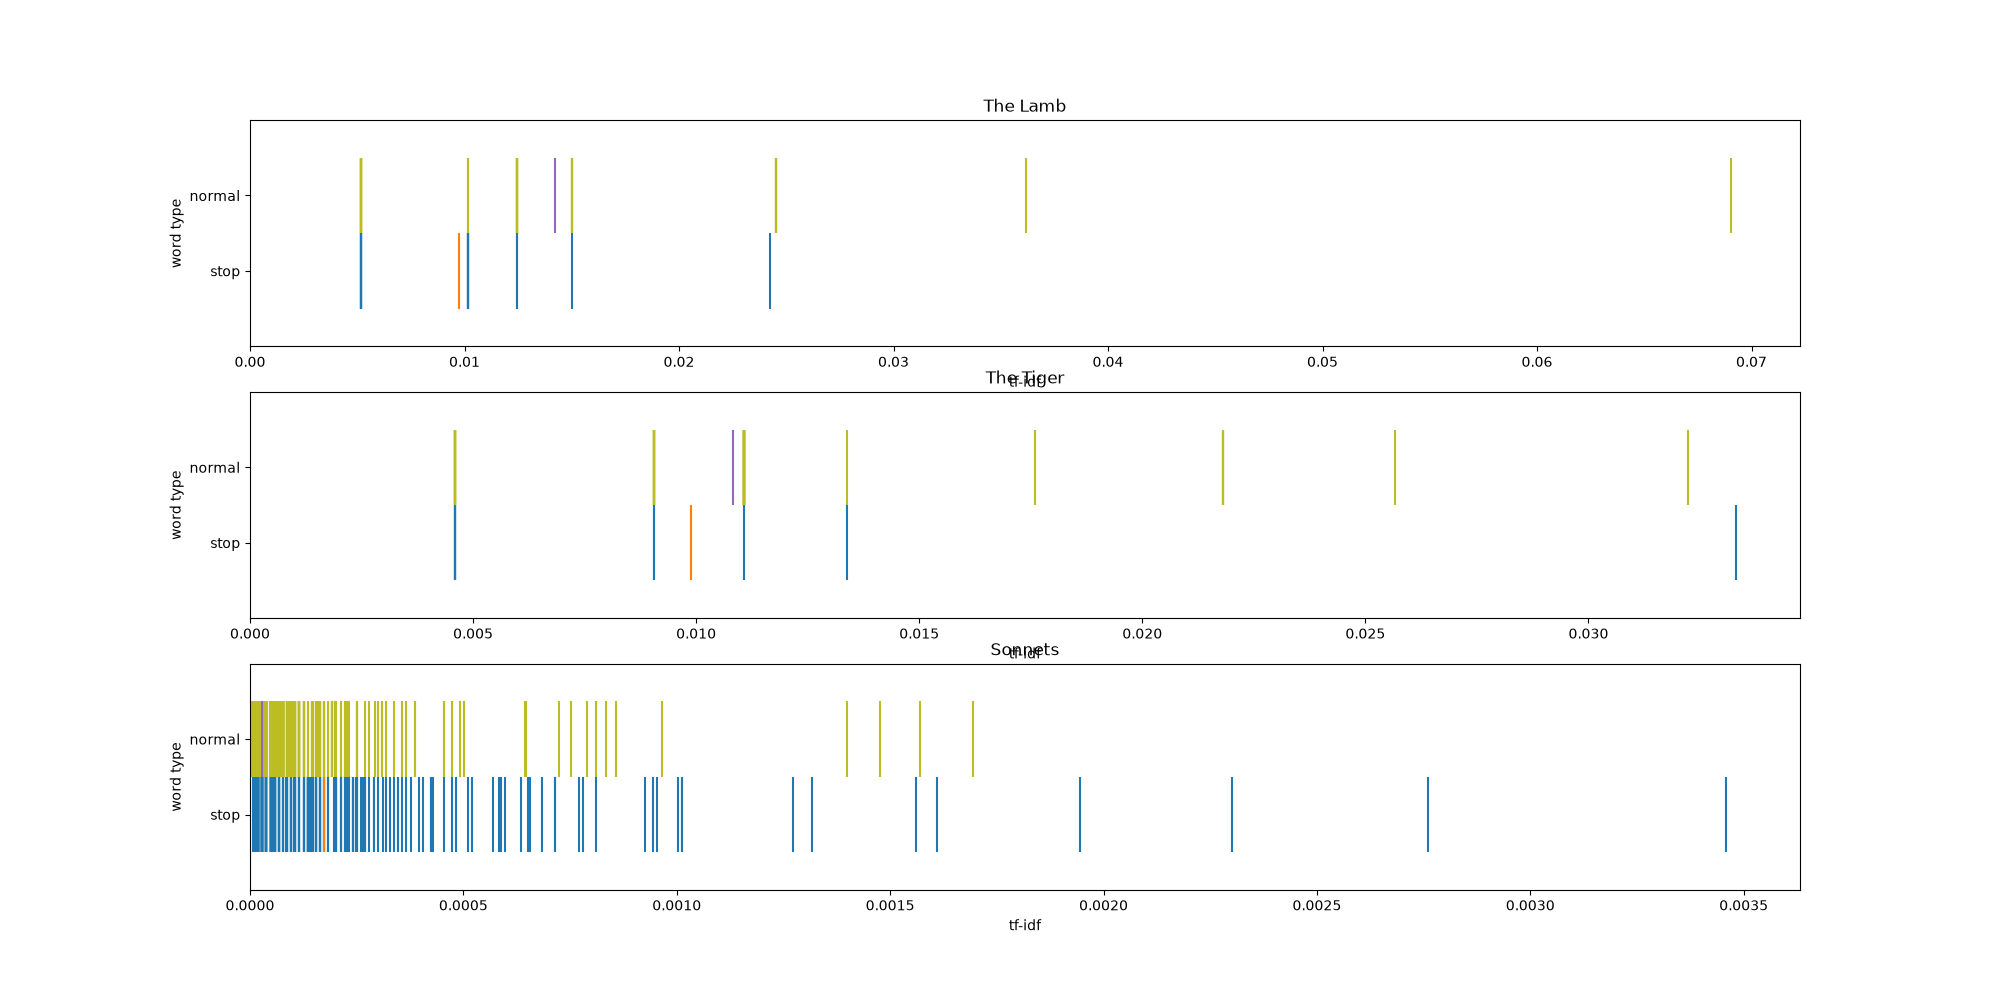
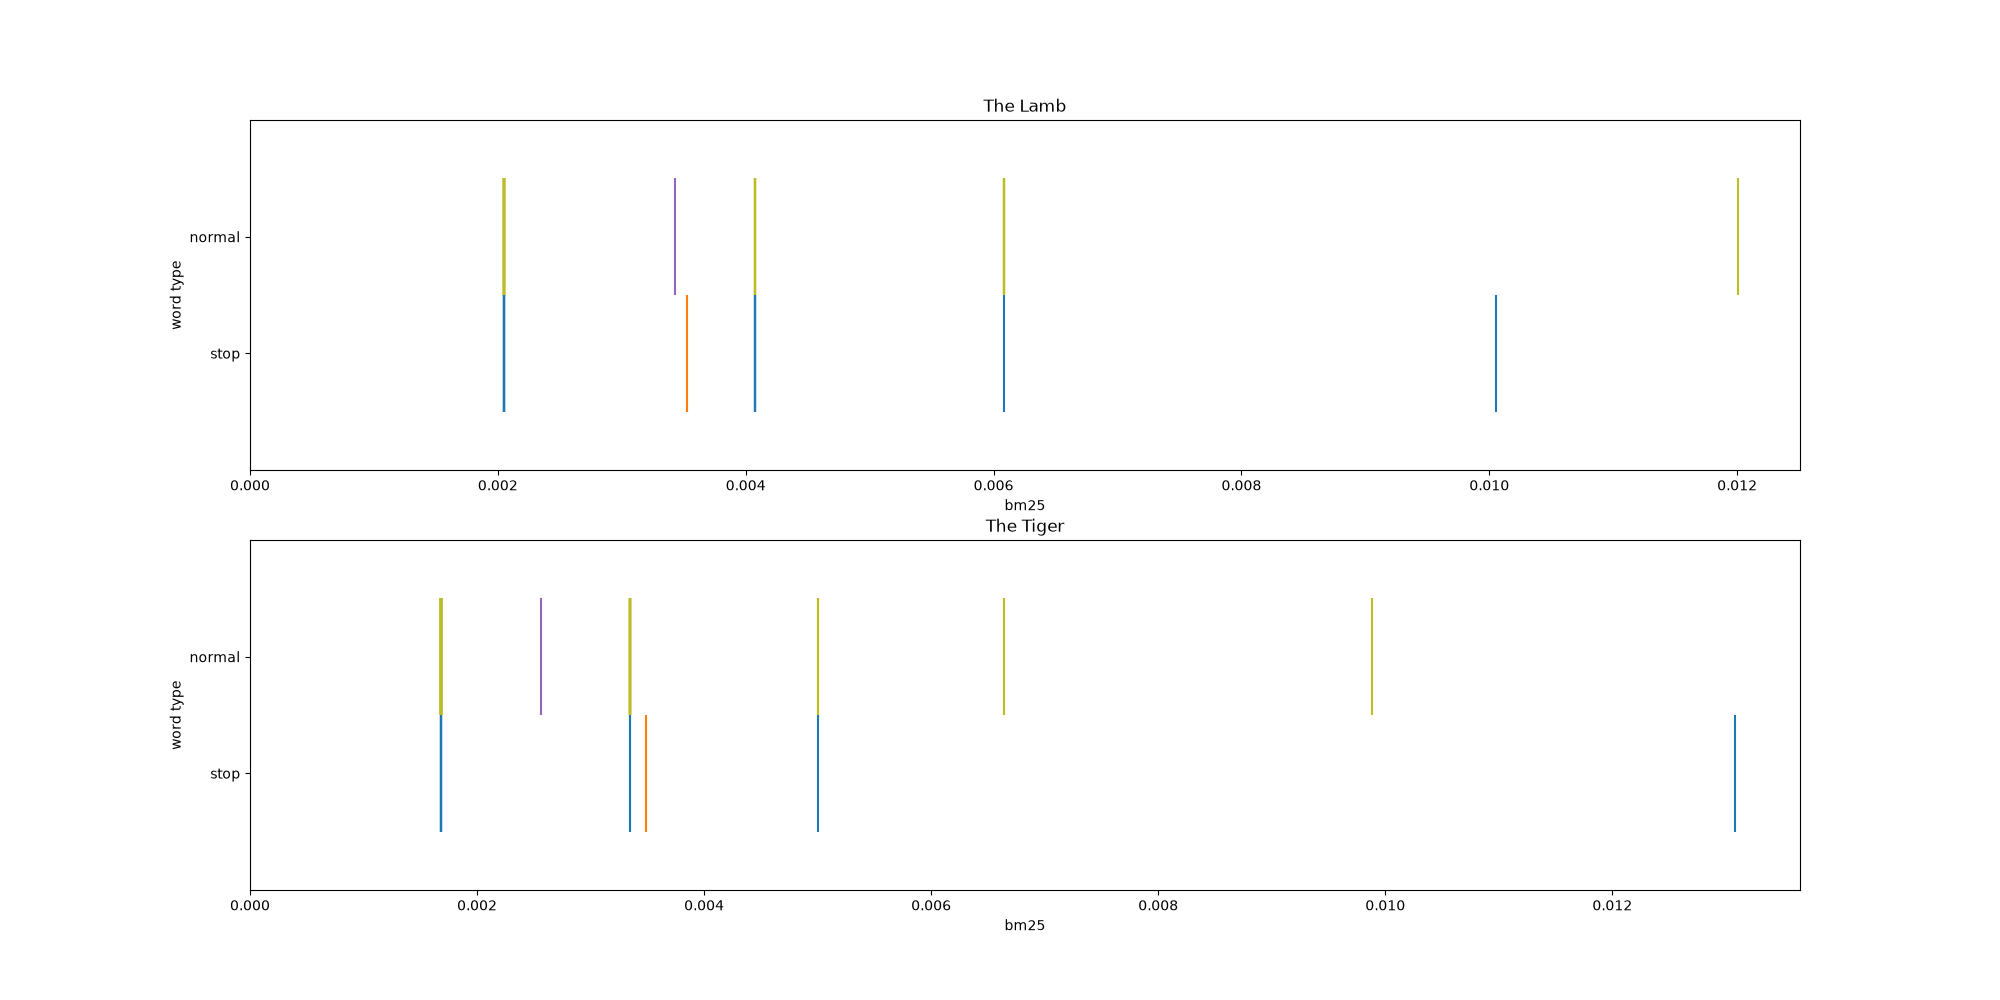
Update task 1-3, add correlation calculations

diff --git a/task1-3.py b/task1-3.py
@@ -8,11 +8,17 @@ import re
 from sklearn.feature_extraction.text import TfidfVectorizer
 import matplotlib.pyplot as plt
 import numpy as np
+from scipy.stats import pearsonr
 
 poems = {
 	"The Lamb": "./poems/thelamb.txt",
 	"The Tiger": "./poems/thetiger.txt",
 	"Sonnets": "./poems/sonnets.txt"
+}
+
+poems = {
+	"The Lamb": "./poems/thelamb.txt",
+	"The Tiger": "./poems/thetiger.txt",
 }
 
 # Tokenization
@@ -31,27 +37,32 @@ features = sorted(list(set(features)))
 
 
 # Calculating tf-idf and bm25 scores
-tfidf_scores = np.zeros((len(documents), len(features)))
-bm25_scores = np.zeros((len(documents), len(features)))
-idfs = []
+def calculate_tfidf_and_bm25(documents, features):
+	tfidf_scores = np.zeros((len(documents), len(features)))
+	bm25_scores = np.zeros((len(documents), len(features)))
+	idfs = []
 
-k_1 = 1.5
-b = 0.75
-avgdl = sum([len(document) for document in documents]) / len(documents)
+	k_1 = 1.5
+	b = 0.75
+	avgdl = sum([len(document) for document in documents]) / len(documents)
 
-for x in range(len(features)):
-	term = features[x]
-	count = 1
-	for document in documents:
-		count += 1 if term in document else 0
-	idf = np.log10((len(documents) + 1)/ count)
-	idfs.append(idf)
+	for x in range(len(features)):
+		term = features[x]
+		count = 1
+		for document in documents:
+			count += 1 if term in document else 0
+		idf = np.log10((len(documents) + 1)/ count)
+		idfs.append(idf)
+
+		for y in range(len(documents)):
+			tf = documents[y].count(term) / len(documents[y])
+
+			tfidf_scores[y][x] = tf * idf
+			bm25_scores[y][x] = idf * tf * (k_1 + 1) / (tf + k_1 * (1 - b + b * (len(documents[y]) / avgdl)))
 	
-	for y in range(len(documents)):
-		tf = documents[y].count(term) / len(documents[y])
-		
-		tfidf_scores[y][x] = tf * idf
-		bm25_scores[y][x] = idf * tf * (k_1 + 1) / (tf + k_1 * (1 - b + b * (len(documents[y]) / avgdl)))
+	return tfidf_scores, bm25_scores
+
+tfidf_scores, bm25_scores = calculate_tfidf_and_bm25(documents, features)
 
 
 # Sort score to stopword and normal
@@ -75,10 +86,17 @@ fig, ax = plt.subplots(count, 1)
 fig.set_size_inches(20, 10)
 
 for i in range(count):
+	# Filter out zero values
 	data_stops = [x[i] for x in stops_tfidf if x[i] != 0.0]
 	data_normal = [x[i] for x in normal_tfidf if x[i] != 0.0]
-	ax[i].eventplot([data_stops, data_normal], lineoffsets=[1, 2], colors=['tab:blue', 'tab:olive'])
-	ax[i].eventplot([[np.mean(data_stops)], [np.mean(data_normal)]], lineoffsets=[1, 2], colors=['tab:orange', 'tab:purple'])
+	
+	# Calculate pearsonr
+	data_x = data_stops + data_normal
+	data_y = [0 for _ in range(len(data_stops))] + [1 for _ in range(len(data_normal))]
+	print(f"{list(poems)[i]} - tfidf correlation: {pearsonr(data_x, data_y)}")
+	
+	ax[i].eventplot([data_stops, data_normal], lineoffsets=[1, 2], colors=['tab:blue', 'tab:orange'])
+	ax[i].eventplot([[np.mean(data_stops)], [np.mean(data_normal)]], lineoffsets=[1, 2], colors=['tab:green', 'tab:red'])
 	ax[i].set(
 		title=list(poems)[i],
 		xlabel="tf-idf",
@@ -98,11 +116,17 @@ fig.set_size_inches(20, 10)
 for i in range(count):
 	data_stops = [x[i] for x in stops_bm25 if x[i] != 0.0]
 	data_normal = [x[i] for x in normal_bm25 if x[i] != 0.0]
+
+	# Calculate pearsonr
+	data_x = data_stops + data_normal
+	data_y = [0 for _ in range(len(data_stops))] + [1 for _ in range(len(data_normal))]
+	print(f"{list(poems)[i]} - bm25 correlation: {pearsonr(data_x, data_y)}")
+
 	ax[i].eventplot([data_stops, data_normal], lineoffsets=[1, 2], colors=['tab:blue', 'tab:olive'])
 	ax[i].eventplot([[np.mean(data_stops)], [np.mean(data_normal)]], lineoffsets=[1, 2],colors=['tab:orange', 'tab:purple'])
 	ax[i].set(
 		title=list(poems)[i],
-		xlabel="tf-idf",
+		xlabel="bm25",
 		ylabel="word type",
 		xlim=(0, None),
 		ylim=(0, 3), 
@@ -111,4 +135,91 @@ for i in range(count):
 	)
 
 plt.savefig("./output/task1-3/fig_bm25_lambtiger.png")
+plt.close()
+
+
+
+## Extras 
+# Analyze sonnets for stopword recognition, where each sonnet is regarded as its own document
+sonnets_regex = r"[\d]+\n\n([\D]+).+" * 154
+
+file = open("./poems/sonnets.txt")
+sonnets_raw = file.read()
+sonnets = re.search(sonnets_regex, sonnets_raw).groups()
+
+documents = []
+features = []
+for sonnet in sonnets:
+	tokens = word_tokenize(sonnet)
+	documents.append(tokens)
+	features.extend(tokens)
+
+features = sorted(list(set(features)))
+
+tfidf_scores, bm25_scores = calculate_tfidf_and_bm25(documents, features)
+
+stops_tfidf = []
+stops_bm25 = []
+normal_tfidf = []
+normal_bm25 = []
+count = len(documents)
+
+for i in range(len(features)):
+	if wnl().lemmatize(features[i]) in stopwords.words():
+		stops_tfidf.extend( [tfidf_scores[n][i] for n in range(count)] )
+		stops_bm25.extend( [bm25_scores[n][i] for n in range(count)] )
+	else:
+		normal_tfidf.extend( [tfidf_scores[n][i] for n in range(count)] )
+		normal_bm25.extend( [bm25_scores[n][i] for n in range(count)] )
+
+
+fig, ax = plt.subplots()
+fig.set_size_inches(15, 5)
+
+data_stops = [x for x in stops_tfidf if x != 0.0]
+data_normal = [x for x in normal_tfidf if x != 0.0]
+
+data_x = data_stops + data_normal
+data_y = [0 for _ in range(len(data_stops))] + [1 for _ in range(len(data_normal))]
+print(f"Sonnets - tfidf correlation: {pearsonr(data_x, data_y)}")
+
+ax.eventplot([data_stops, data_normal], lineoffsets=[1, 2], colors=['tab:blue', 'tab:olive'])
+ax.eventplot([[np.mean(data_stops)], [np.mean(data_normal)]], lineoffsets=[1, 2], colors=['tab:orange', 'tab:purple'])
+ax.set(
+	title="Sonnets",
+	xlabel="tf-idf",
+	ylabel="word type",
+	xlim=(0, None),
+	ylim=(0, 3), 
+	yticks=np.arange(1, 3),
+	yticklabels=["stop", "normal"]
+)
+
+plt.savefig("./output/task1-3/fig_tfidf_sonnets.png")
+plt.close()
+
+fig, ax = plt.subplots()
+fig.set_size_inches(15, 5)
+
+data_stops = [x for x in stops_bm25 if x != 0.0]
+data_normal = [x for x in normal_bm25 if x != 0.0]
+
+
+data_x = data_stops + data_normal
+data_y = [0 for _ in range(len(data_stops))] + [1 for _ in range(len(data_normal))]
+print(f"Sonnets - bm25 correlation: {pearsonr(data_x, data_y)}")
+
+ax.eventplot([data_stops, data_normal], lineoffsets=[1, 2], colors=['tab:blue', 'tab:olive'])
+ax.eventplot([[np.mean(data_stops)], [np.mean(data_normal)]], lineoffsets=[1, 2], colors=['tab:orange', 'tab:purple'])
+ax.set(
+	title="Sonnets",
+	xlabel="bm25",
+	ylabel="word type",
+	xlim=(0, None),
+	ylim=(0, 3), 
+	yticks=np.arange(1, 3),
+	yticklabels=["stop", "normal"]
+)
+
+plt.savefig("./output/task1-3/fig_bm25_sonnets.png")
 plt.close()
